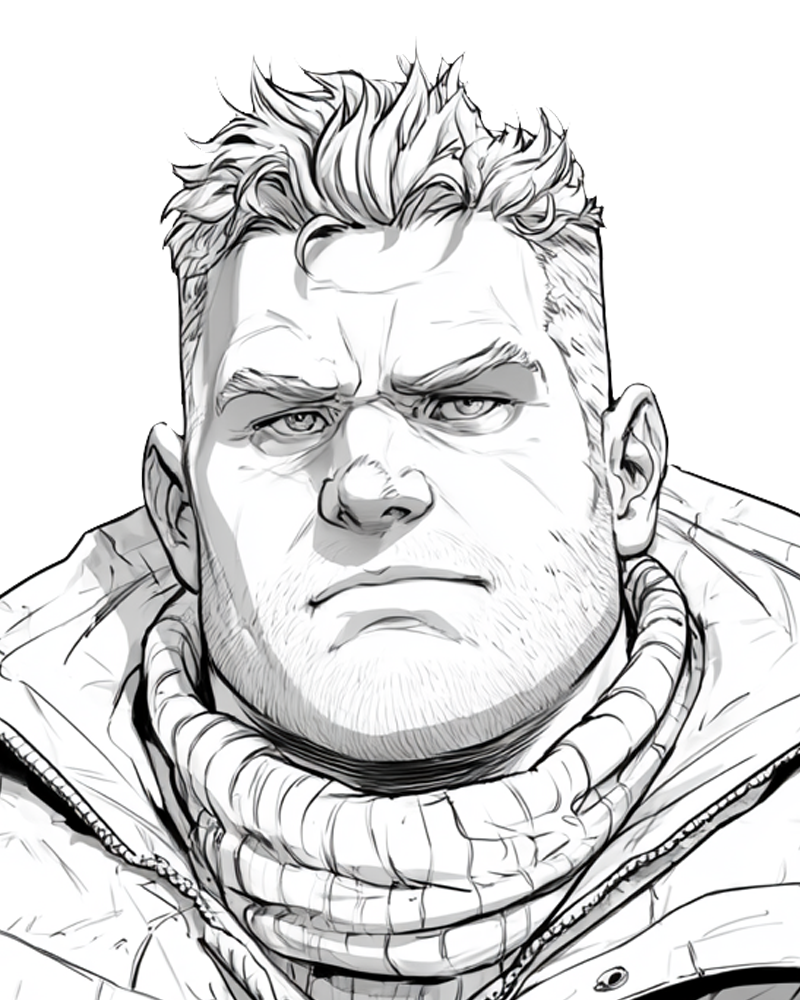
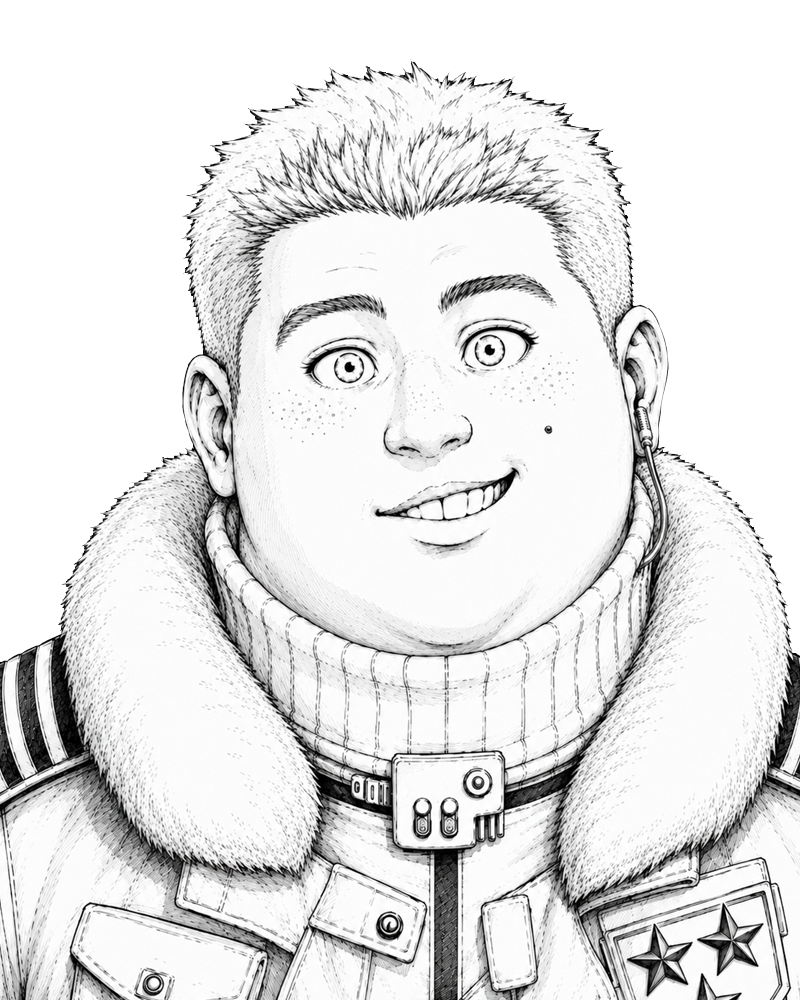
Personnel Manifest changes

diff --git a/js/app.js b/js/app.js
@@ -1,6 +1,6 @@
 (() => {
   'use strict';
-  const VERSION = '0.5.77-dev';
+  const VERSION = '0.5.78-dev';
   const playAudio = (name,options) => window.ETOSAudio?.play(name,options);
   const WARDEN_PIN = '8722';
   const TRANSFER_MS = 8000;
@@ -94,6 +94,7 @@
   let argozaCrewTeam = 'away';
   let argozaPlanetaryLevel = 'system';
   let argozaBriefingFile = 'deployment';
+  let argozaManifestBranch = 'support';
   let argozaMissionDirective = false;
   let argozaPersonnelBriefingView = 'closed';
   let argozaPersonnelBriefing = null;
@@ -2600,7 +2601,8 @@
 
   function renderArgozaManifest(){
     const renderGroup=group=>`<section><h4>${group.group}</h4>${group.people.map(([name,role])=>`<p><strong>${name}</strong><span>${role}</span></p>`).join('')}</section>`;
-    return `<article class="argoza-file-document argoza-manifest"><header><span>HORIZON BASE</span><h3>PERSONNEL MANIFEST</h3><strong>25 ASSIGNED PERSONNEL // PRE-MISSION ROSTER</strong></header><div class="argoza-manifest-columns"><section class="argoza-manifest-branch"><h3>SUPPORT</h3>${argozaPersonnelManifest.support.map(renderGroup).join('')}</section><section class="argoza-manifest-branch is-military"><h3>MILITARY</h3>${argozaPersonnelManifest.military.map(renderGroup).join('')}</section></div><footer>LIVE PERSONNEL STATUS UNAVAILABLE // LOCATION DATA UNAVAILABLE // HORIZON SIGNAL LOST</footer></article>`;
+    const branch=argozaManifestBranch==='military'?'military':'support',label=branch.toUpperCase();
+    return `<article class="argoza-file-document argoza-manifest"><header><span>HORIZON BASE</span><h3>PERSONNEL MANIFEST</h3><strong>25 ASSIGNED PERSONNEL // PRE-MISSION ROSTER</strong></header><nav class="argoza-manifest-tabs" aria-label="Personnel roster branch"><button type="button" class="${branch==='support'?'is-active':''}" data-argoza-manifest-branch="support" aria-pressed="${branch==='support'}">SUPPORT</button><button type="button" class="${branch==='military'?'is-active':''}" data-argoza-manifest-branch="military" aria-pressed="${branch==='military'}">MILITARY</button></nav><div class="argoza-manifest-roster" role="region" aria-label="${label} personnel roster" aria-live="polite"><section class="argoza-manifest-branch is-selected">${argozaPersonnelManifest[branch].map(renderGroup).join('')}</section></div><footer>LIVE PERSONNEL STATUS UNAVAILABLE // LOCATION DATA UNAVAILABLE // HORIZON SIGNAL LOST</footer></article>`;
   }
 
   function renderArgozaBriefingDocument(){
@@ -2646,9 +2648,9 @@
   function loadState(){ try {const saved=JSON.parse(localStorage.getItem(STORAGE_KEY)||'{}'),sanitization={...SANITIZATION_DEFAULT,...(saved.sanitization||{})},auditToken={...AUDIT_TOKEN_DEFAULT,...(saved.auditToken||{})};if(!['auth','timer','confirm'].includes(sanitization.resumePhase))sanitization.resumePhase='auth';if(!sanitization.keyEngaged&&['detected','turning'].includes(sanitization.phase))sanitization.phase='dormant';if(['removal-pending','removing'].includes(sanitization.phase)){sanitization.keyEngaged=false;sanitization.phase='dormant';sanitization.resumePhase='auth';sanitization.delaySeconds=0;sanitization.initiatedAt=null;sanitization.completesAt=null;sanitization.complete=false;}if(sanitization.keyEngaged&&sanitization.phase==='dormant')sanitization.phase='auth';if(sanitization.phase==='active'&&sanitization.completesAt&&Date.now()>=sanitization.completesAt)sanitization.complete=true;return {activeTerminal:'command',initialized:false,section:'overview',...saved,sanitization,auditToken};} catch { return {activeTerminal:'command',initialized:false,section:'overview',sanitization:{...SANITIZATION_DEFAULT},auditToken:{...AUDIT_TOKEN_DEFAULT}}; } }
   function saveState(){ localStorage.setItem(STORAGE_KEY,JSON.stringify(state)); }
   function showScreen(name){ [els.boot,els.terminal,els.transfer].forEach(el=>el.hidden=true); els[name].hidden=false; }
-  const DEV_PREF_KEY = 'etos.devtools.visible.v1';
-  function loadDevPrefs(){ try { return {show:true, ...JSON.parse(localStorage.getItem(DEV_PREF_KEY)||'{}')}; } catch { return {show:true}; } }
-  function saveDevPrefs(prefs){ localStorage.setItem(DEV_PREF_KEY, JSON.stringify(prefs)); }
+  let devControlsEnabled=false;
+  function loadDevPrefs(){return {show:devControlsEnabled};}
+  function saveDevPrefs(prefs){devControlsEnabled=!!prefs.show;}
   function applyDevVisibility(){ const prefs=loadDevPrefs(); els.app.dataset.devControls=prefs.show?'shown':'hidden'; if(!prefs.show){ els.workspace.querySelectorAll('[data-overview-dev-toggle],[data-overview-layout-toggle],[data-overview-editor-toggle],[data-overview-dev-panel],[data-overview-layout-panel],[data-overview-editor-panel],[data-communications-font-toggle],[data-communications-font-panel],[data-facility-font-toggle],[data-facility-font-panel]').forEach(el=>{ if(el.matches('aside')) el.hidden=true; else el.remove(); }); } }
 
   let commandInterlockHoldTimer=null,commandInterlockTurnTimer=null,commandInterlockRevealTimer=null,commandInterlockAcknowledged=false,commandInterlockHoldMode=null,commandInterlockMessage='',commandInterlockMessageTimer=null;
@@ -3302,6 +3304,8 @@
     state.initialized=true;
     state.activeTerminal='argoza';
     state.section='home';
+    devControlsEnabled=false;
+    if(els.devVisible)els.devVisible.checked=false;
     argozaSection='home';
     argozaPlanetaryLevel='system';
     saveState();
@@ -3375,7 +3379,9 @@
     const argozaMarkerCopy=e.target.closest('[data-argoza-marker-copy]');
     if(argozaMarkerCopy){const key=argozaMarkerCopy.dataset.argozaMarkerCopy,field=els.workspace.querySelector(`[data-argoza-marker-export="${key}"]`);if(field){field.focus();field.select();navigator.clipboard?.writeText(field.value).catch(()=>{});}return;}
     const argozaFileButton=e.target.closest('[data-argoza-file]');
-    if(argozaFileButton){argozaBriefingFile=argozaFileButton.dataset.argozaFile;if(argozaBriefingFile==='personnel'){playAudio('restricted');resetArgozaPersonnelBriefing('access');renderTerminal();setTimeout(()=>document.getElementById('argoza-personnel-code')?.focus(),40);return;}playAudio('uiSelect');resetArgozaPersonnelBriefing();if(argozaBriefingFile!=='layout')argozaRoomFocus(null);renderTerminal();return;}
+    if(argozaFileButton){argozaBriefingFile=argozaFileButton.dataset.argozaFile;if(argozaBriefingFile==='manifest')argozaManifestBranch='support';if(argozaBriefingFile==='personnel'){playAudio('restricted');resetArgozaPersonnelBriefing('access');renderTerminal();setTimeout(()=>document.getElementById('argoza-personnel-code')?.focus(),40);return;}playAudio('uiSelect');resetArgozaPersonnelBriefing();if(argozaBriefingFile!=='layout')argozaRoomFocus(null);renderTerminal();return;}
+    const argozaManifestButton=e.target.closest('[data-argoza-manifest-branch]');
+    if(argozaManifestButton){playAudio('uiSelect');argozaManifestBranch=argozaManifestButton.dataset.argozaManifestBranch==='military'?'military':'support';renderTerminal();return;}
     const argozaRoomButton=e.target.closest('[data-argoza-room]');
     if(argozaRoomButton){playAudio('uiSelect');setArgozaFacilityFocus(argozaRoomButton.dataset.argozaRoom,true);return;}
     if(e.target.closest('[data-argoza-map-reset]')){setArgozaFacilityFocus(null,true);return;}

diff --git a/index.html b/index.html
@@ -11,11 +11,11 @@
   <link rel="manifest" href="manifest.webmanifest">
   <link rel="preload" as="image" href="assets/img/command/weather-terrain.png" fetchpriority="high">
   <link rel="preload" as="image" href="assets/img/command/weather-storm.png" fetchpriority="high">
-  <link rel="stylesheet" href="css/app.css?v=0.5.77">
-  <link rel="stylesheet" href="css/themes/command.css?v=0.5.77">
-  <link rel="stylesheet" href="css/themes/medical.css?v=0.5.77">
-  <link rel="stylesheet" href="css/themes/edem.css?v=0.5.77">
-  <link rel="stylesheet" href="css/themes/argoza.css?v=0.5.77">
+  <link rel="stylesheet" href="css/app.css?v=0.5.78">
+  <link rel="stylesheet" href="css/themes/command.css?v=0.5.78">
+  <link rel="stylesheet" href="css/themes/medical.css?v=0.5.78">
+  <link rel="stylesheet" href="css/themes/edem.css?v=0.5.78">
+  <link rel="stylesheet" href="css/themes/argoza.css?v=0.5.78">
   <title>ETOS</title>
 </head>
 <body>
@@ -26,7 +26,7 @@
       <img id="brand-logo" class="brand-logo" src="assets/img/ellison-tanaka-logo.svg" alt="Ellison-Tanaka Colonial Systems">
       <div class="boot-copy">
         <p>ELLISON–TANAKA COLONIAL SYSTEMS</p>
-        <p>ETOS CORE ENVIRONMENT // BUILD 0.5.77-dev</p>
+        <p>ETOS CORE ENVIRONMENT // BUILD 0.5.78-dev</p>
         <p class="motto">BUILDING BETTER FUTURES.</p>
       </div>
       <button id="initialize-button" class="terminal-button" type="button">INITIALIZE TERMINAL</button>
@@ -49,7 +49,7 @@
 
       <footer class="terminal-footer">
         <span id="location-label">LV-872 // ORISON</span>
-        <span id="version-label">ETOS v0.5.77-dev</span>
+        <span id="version-label">ETOS v0.5.78-dev</span>
         <span id="interface-label">TOUCH INTERFACE READY</span>
       </footer>
     </section>
@@ -133,14 +133,14 @@
             <p id="sequence-reset-status" class="warden-reset-status" role="status" aria-live="polite"></p>
           </section>
           <button id="reset-session" class="danger-button" type="button">RESET ALL SESSION DATA</button>
-          <p class="small-note">Hold the corporate logo or active terminal heading for three seconds to reopen this panel.<br>Current build: <strong id="warden-version">v0.5.77-dev</strong></p>
+          <p class="small-note">Hold the corporate logo or active terminal heading for three seconds to reopen this panel.<br>Current build: <strong id="warden-version">v0.5.78-dev</strong></p>
         </div>
       </div>
     </div>
 
     <div id="rotate-warning" class="rotate-warning" hidden><div><h2>ROTATE DEVICE</h2><p>ETOS requires landscape orientation.</p></div></div>
   </main>
-  <script src="js/audio.js?v=0.5.77"></script>
-  <script src="js/app.js?v=0.5.77"></script>
+  <script src="js/audio.js?v=0.5.78"></script>
+  <script src="js/app.js?v=0.5.78"></script>
 </body>
 </html>

diff --git a/css/themes/argoza.css b/css/themes/argoza.css
@@ -134,3 +134,22 @@
 .argoza-approach-marker{--marker-base-width:1.35%;display:block}
 .argoza-approach-marker>i{position:absolute;inset:0;box-sizing:border-box;width:100%;height:100%}
 .argoza-approach-marker>span{position:absolute;left:calc(100% + clamp(5px,.95cqw,7px));top:0;white-space:nowrap;font-size:clamp(7px,1.1cqw,8px)}
+
+/* Personnel Manifest: one readable roster branch at a time. */
+.argoza-manifest{height:100%;min-height:0;display:grid;grid-template-rows:auto auto minmax(0,1fr) auto;overflow:hidden;padding:12px 16px}
+.argoza-manifest>header{margin-bottom:8px;padding-bottom:7px;display:grid;grid-template-columns:minmax(0,1fr) auto;grid-template-rows:auto auto;gap:2px 14px;align-items:end}
+.argoza-manifest>header>span{grid-column:1;grid-row:1}
+.argoza-manifest>header>h3{grid-column:1;grid-row:2;margin:0}
+.argoza-manifest>header>strong{grid-column:2;grid-row:1/3;align-self:center;text-align:right}
+.argoza-manifest-tabs{display:grid;grid-template-columns:1fr 1fr;gap:10px;margin-bottom:11px}
+.argoza-manifest-tabs button{min-height:52px;border:1px solid var(--line);background:rgba(5,12,23,.72);color:var(--accent-soft);font:inherit;font-size:14px;font-weight:700;letter-spacing:.08em}
+.argoza-manifest-tabs button.is-active{border-color:var(--accent);background:linear-gradient(90deg,rgba(121,174,242,.18),rgba(9,17,31,.76));color:var(--accent);box-shadow:inset 3px 0 0 var(--accent)}
+.argoza-manifest>.argoza-manifest-roster{min-height:0;display:block;overflow:auto;border:1px solid var(--line);padding:7px 15px;background:rgba(3,9,17,.38);scrollbar-gutter:stable}
+.argoza-manifest-roster>.argoza-manifest-branch{display:block;border:0!important;padding:0!important}
+.argoza-manifest-roster>.argoza-manifest-branch>section{margin:0;padding:0 0 12px;border:0}
+.argoza-manifest-roster>.argoza-manifest-branch>section+section{margin-top:7px;padding-top:16px;border-top:1px solid var(--line)}
+.argoza-manifest-roster .argoza-manifest-branch h4{margin:0 0 10px;font-size:14px;line-height:1.25;letter-spacing:.08em;color:var(--accent)}
+.argoza-manifest-roster .argoza-manifest-branch p{margin:0 0 5px;padding:3px 0;display:grid;grid-template-columns:minmax(0,1fr) minmax(160px,.75fr);gap:14px;align-items:baseline;line-height:1.25}
+.argoza-manifest-roster .argoza-manifest-branch p strong{display:block;font-size:12px;line-height:1.25;color:var(--text)}
+.argoza-manifest-roster .argoza-manifest-branch p span{display:block;margin:0;font-size:10px;line-height:1.25;color:var(--accent-soft)}
+.argoza-manifest>footer{margin-top:6px}

diff --git a/service-worker.js b/service-worker.js
@@ -1,4 +1,4 @@
-/* ETOS v0.5.77 development build: intentionally clears old offline caches. */
+/* ETOS v0.5.78 development build: intentionally clears old offline caches. */
 self.addEventListener('install',()=>self.skipWaiting());
 self.addEventListener('activate',event=>event.waitUntil((async()=>{for(const key of await caches.keys())await caches.delete(key);await self.clients.claim();})()));
 self.addEventListener('fetch',()=>{});

diff --git a/DEVELOPMENT_LOG.md b/DEVELOPMENT_LOG.md
@@ -1,3 +1,12 @@
+# 2026-08-24 — v0.5.78-dev
+
+- Reworked Briefing Files → Personnel Manifest into large Support/Military selectors with one vertically ordered roster visible at a time; opening the file always selects Support.
+- Kept all 25 existing names, roles, subgroup hierarchy, and `RANK/TITLE LAST NAME, FIRST NAME` strings unchanged, with no KIA/MIA state.
+- At 1024×768, verified 52 px selector height, 14 px subgroup headers, 12 px names, 10 px roles, full-width single roster rows, visibly separated subgroup sections, a Support roster that fits without scrolling, and contained vertical scrolling for the longer Military roster.
+- Verified Military swaps into the same panel immediately and Support resets when the manifest is reopened; desktop at 1366×768 uses the same single-roster structure.
+- Replaced persisted dev visibility with a runtime-only Warden-authorized flag. Fresh initialization and refresh start hidden; the authenticated checkbox still reveals Argoza marker panels and export controls for the current session.
+- Browser QA verified boot exposes only Initialize, Initialize loads ETV Argoza directly, Warden authorization gates terminal selection, the original three-second Warden hold is restored, and the console is clean.
+
 # 2026-08-24 — v0.5.77-dev
 
 - Finalized planetary marker defaults: System Orison 82.7/49/1; Argoza Approach 70/65/1; Orison Horizon Sector 55/44.5/0.5; Sector Horizon Base 46.3/45.6/0.5; Sector Heron Station 65/50/0.5.

diff --git a/CHANGELOG.md b/CHANGELOG.md
@@ -1,3 +1,11 @@
+# v0.5.78-dev — Argoza Personnel Manifest readability
+
+- Replaced the simultaneous Support/Military manifest columns with two large same-panel roster selectors.
+- Defaulted each Personnel Manifest opening to Support and retained the existing names, roles, hierarchy, and formatting.
+- Increased subgroup prominence and breathing room while presenting personnel as readable single roster rows.
+- Made developer visibility Warden-authorized for the current runtime only, guaranteeing hidden tools on initial load and refresh.
+- Preserved direct Argoza initialization, Warden-gated terminal switching, map behavior, and unrelated ETOS systems.
+
 # v0.5.77-dev — Final planetary marker defaults
 
 - Updated the five System, Orison, and Horizon Sector marker defaults to their finalized X/Y/scale values.
